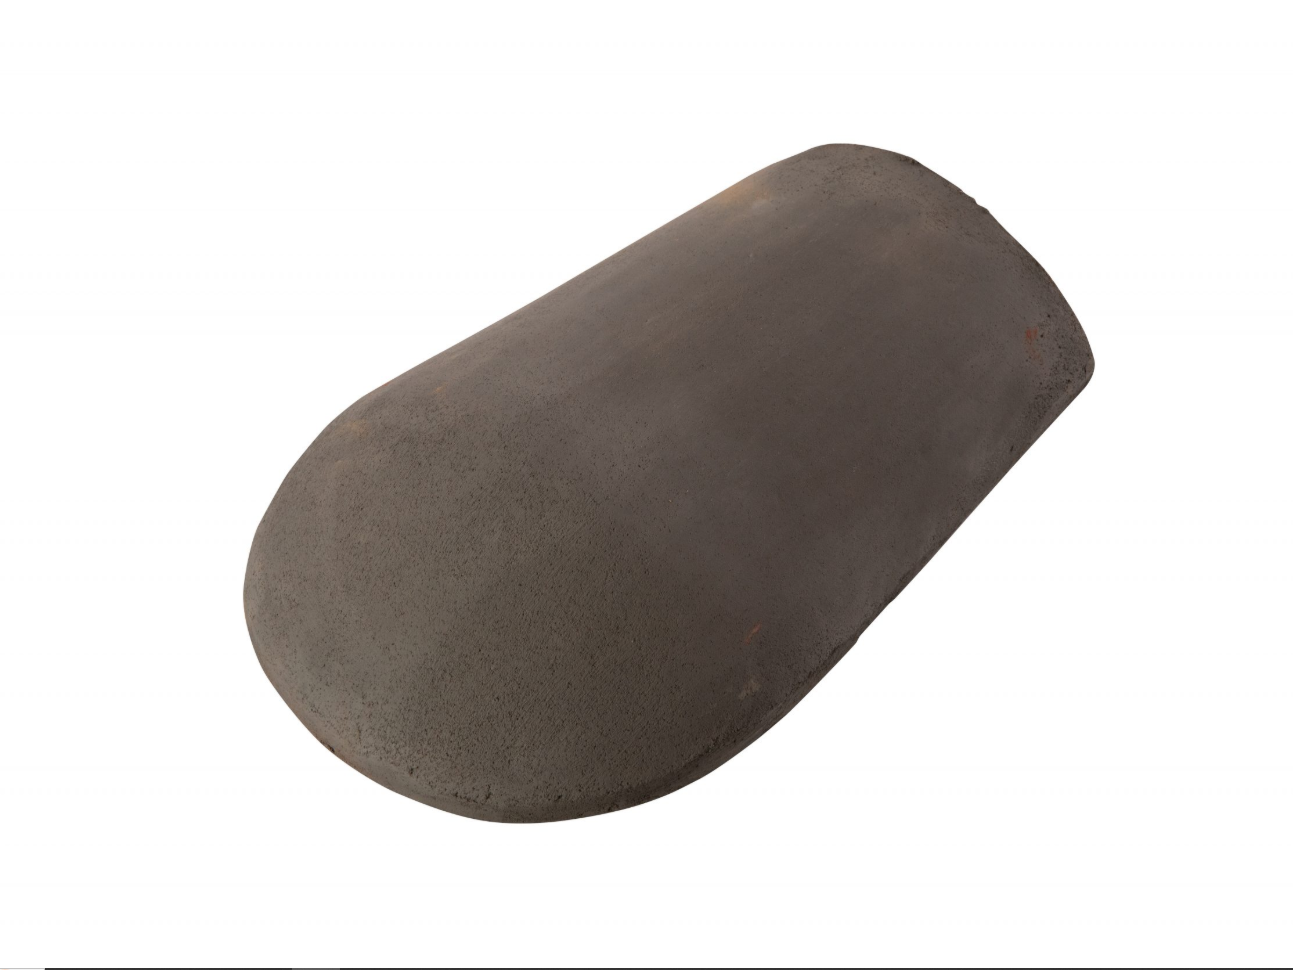
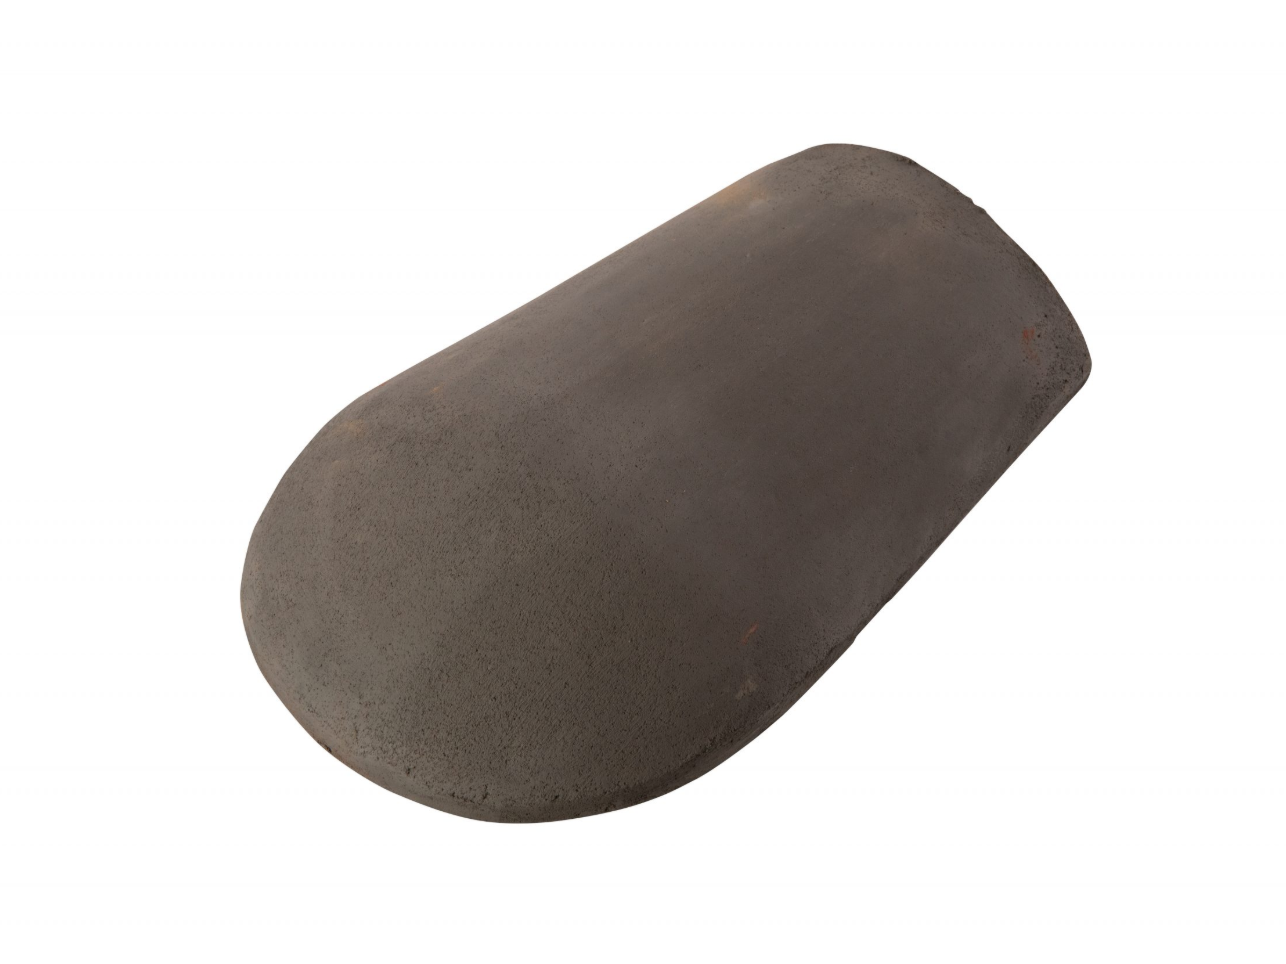
styled the products

diff --git a/index.html b/index.html
@@ -109,84 +109,96 @@
                 <div class="items">
                     <img src="./img/roof-tileB.png" alt="roof tiles">
 
-                    <p>R</p>
+                    <p class="item-name">Black Roof Tiles</p>
+                    <p class="price">R11,99</p>
                     <button class="btn-cart">ADD TO CART</button>
                 </div>
 
                 <div class="items">
                     <img src="./img/roof-tileR.png" alt="roof tiles">
 
-                    <p>R</p>
+                    <p class="item-name">Red Roof Tiles</p>
+                    <p class="price">R10,99</p>
                     <button class="btn-cart">ADD TO CART</button>
                 </div>
 
                 <div class="items">
                     <img src="./img/ridge-cornerB.png" alt="roof tiles">
 
-                    <p>R</p>
+                    <p class="item-name">Black Ridge Corner</p>
+                    <p class="price">R22,99</p>
                     <button class="btn-cart">ADD TO CART</button>
                 </div>
 
                 <div class="items">
                     <img src="./img/ridge-cornerR.png" alt="roof tiles">
 
-                    <p>R</p>
+                    <p class="item-name">Red Ridges Corner</p>
+                    <p class="price">R19,99</p>
                     <button class="btn-cart">ADD TO CART</button>
                 </div>
 
                 <div class="items">
                     <img src="./img/ridgeB.png" alt="roof tiles">
 
-                    <p>R</p>
+                    <p class="item-name">Black Ridges</p>
+                    <p class="price">R25,99</p>
                     <button class="btn-cart">ADD TO CART</button>
                 </div>
             
                 <div class="items">
                     <img src="./img/ridgeR.png" alt="roof tiles">
 
-                    <p>R</p>
+                    <p class="item-name">Red Ridges</p>
+                    <p class="price">R23,99</p>
                     <button class="btn-cart">ADD TO CART</button>
                 </div>
 
                 <div class="items">
                     <img src="./img/roof-sheet.png" alt="roof tiles">
 
-                    <p>R</p>
+                    <p class="item-name">Roof Sheet</p>
+                    <p class="price">R289,99</p>
                     <button class="btn-cart">ADD TO CART</button>
                 </div>
 
                 <div class="items">
                     <img src="./img/column-head.png" alt="roof tiles">
 
-                    <p>R</p>
+                    <p class="item-name">Building Column Header/Footer</p>
+                    <p class="price">R274,99</p>
                     <button class="btn-cart">ADD TO CART</button>
                 </div>
 
                 <div class="items">
                     <img src="./img/column.png" alt="roof tiles">
 
-                    <p>R</p>
+                    <p class="item-name">Building Column</p>
+                    <p class="price">R599,99</p>
                     <button class="btn-cart">ADD TO CART</button>
                 </div>
 
                 <div class="items">
                     <img src="./img/lintel.png" alt="roof tiles">
 
-                    <p>R</p>
+                    <p class="item-name">Lintel Concrete</p>
+                    <p class="price">R164,99</p>
                     <button class="btn-cart">ADD TO CART</button>
                 </div>
 
                 <div class="items">
                     <img src="./img/nails.png" alt="roof tiles">
 
-                    <p>R</p>
+                    <p class="item-name">Steel Nails</p>
+                    <p class="price">R39,99</p>
                     <button class="btn-cart">ADD TO CART</button>
                 </div>
 
                 <div class="items">
                     <img src="./img/oxide.png" alt="roof tiles">
 
-                    <p>R</p>
+                    <p class="item-name">Oxide Cement Powder</p>
+                    <p class="price">R39,99</p>
                     <button class="btn-cart">ADD TO CART</button>
                 </div>
             </div>

diff --git a/css/style.css b/css/style.css
@@ -252,19 +252,62 @@ header button:hover
 /*      PRODUCTS        */
 .product
 {
-    font-size: 20px;
-    padding-top: 2rem;
+    font-size: 25px;
+    padding-top: 5rem;
     text-align: center;
+}
+
+.product h1
+{
+    color: var(--secondary);
 }
 
 .products
 {
     display: grid;
-    grid-template-columns: repeat(3, 1fr);
-    gap: 16px;
+    grid-template-columns: repeat(auto-fit, minmax(300px, 400px));
+    justify-content: center;
+    margin: 0 10rem;
+    gap: 2rem;
+    padding-top: 5rem;
 }
 
 .items img
 {
-    max-width: 400px;
+    max-width: 300px;
+    margin-bottom: .5rem;
+}
+
+.items
+{
+    border-radius: 5px;
+    box-shadow: 0 0 10px rgb(224, 223, 223);
+    text-align: center;
+    padding: 1rem;
+}
+
+.items p
+{
+    margin-bottom: 1rem;
+}
+
+.item-name 
+{
+    color: var(--secondary);
+}
+
+.price 
+{
+    font-weight: bold;
+    padding-bottom: 1rem;
+}
+
+.btn-cart 
+{
+    border: none;
+    padding: 0.5rem;
+    width: 80%;
+    color: var(--white-text);
+    background-color: var(--primary);
+    border-radius: 5px;
 }
